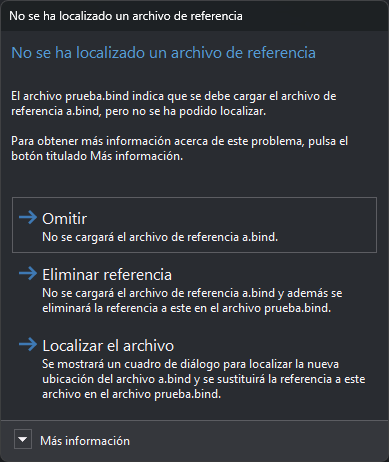
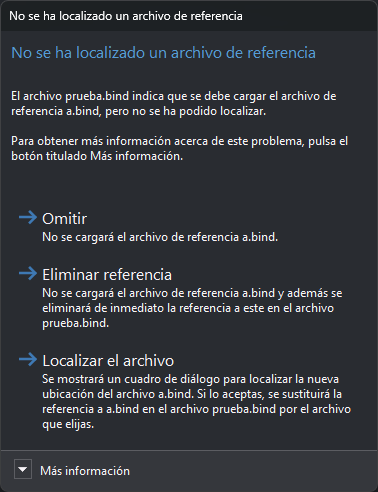
Cuadro No se ha localizado un archivo de referencia: captura actual y titulo del cuadro Localizar el archivo
El cuadro de apertura no propone el nombre del archivo que falta: el nombre va en el titulo.

diff --git a/src/digi3d-ai/referencia/cuadros-de-dialogo/no-se-ha-localizado-un-archivo-de-referencia.md b/src/digi3d-ai/referencia/cuadros-de-dialogo/no-se-ha-localizado-un-archivo-de-referencia.md
@@ -17,4 +17,4 @@ El cuadro no se puede cerrar con la tecla Esc ni con el botón de cierre de la v
 
 * **Omitir**: Digi3D.AI no carga este archivo de referencia y no modifica el archivo de dibujo. La referencia sigue guardada y el cuadro volverá a aparecer la próxima vez que abras el archivo de dibujo.
 * **Eliminar referencia**: Digi3D.AI no carga el archivo de referencia y elimina la referencia al instante, sin esperar a que guardes: la quita del archivo de dibujo y del archivo de archivos de referencia. El efecto es el mismo que el de la orden [DEJAR](../ventana-de-dibujo/ordenes/d/dejar.md). No marca el documento como modificado. Si el archivo de dibujo es de solo lectura, la referencia no se elimina de él y el cuadro volverá a aparecer la próxima vez.
-* **Localizar el archivo**: muestra un cuadro de diálogo para abrir un archivo, con el nombre del archivo que falta como nombre propuesto. Si lo aceptas, Digi3D.AI sustituye en el archivo de dibujo la referencia antigua por la ruta completa del archivo elegido y lo carga. Si cancelas el cuadro de diálogo, el resultado es el mismo que con **Omitir**.
+* **Localizar el archivo**: muestra un cuadro de diálogo para abrir un archivo, titulado «Localiza la nueva ubicación del archivo», seguido del nombre del archivo que falta. Si lo aceptas, Digi3D.AI sustituye en el archivo de dibujo la referencia antigua por la ruta completa del archivo elegido y lo carga. Si cancelas el cuadro de diálogo, el resultado es el mismo que con **Omitir**.
